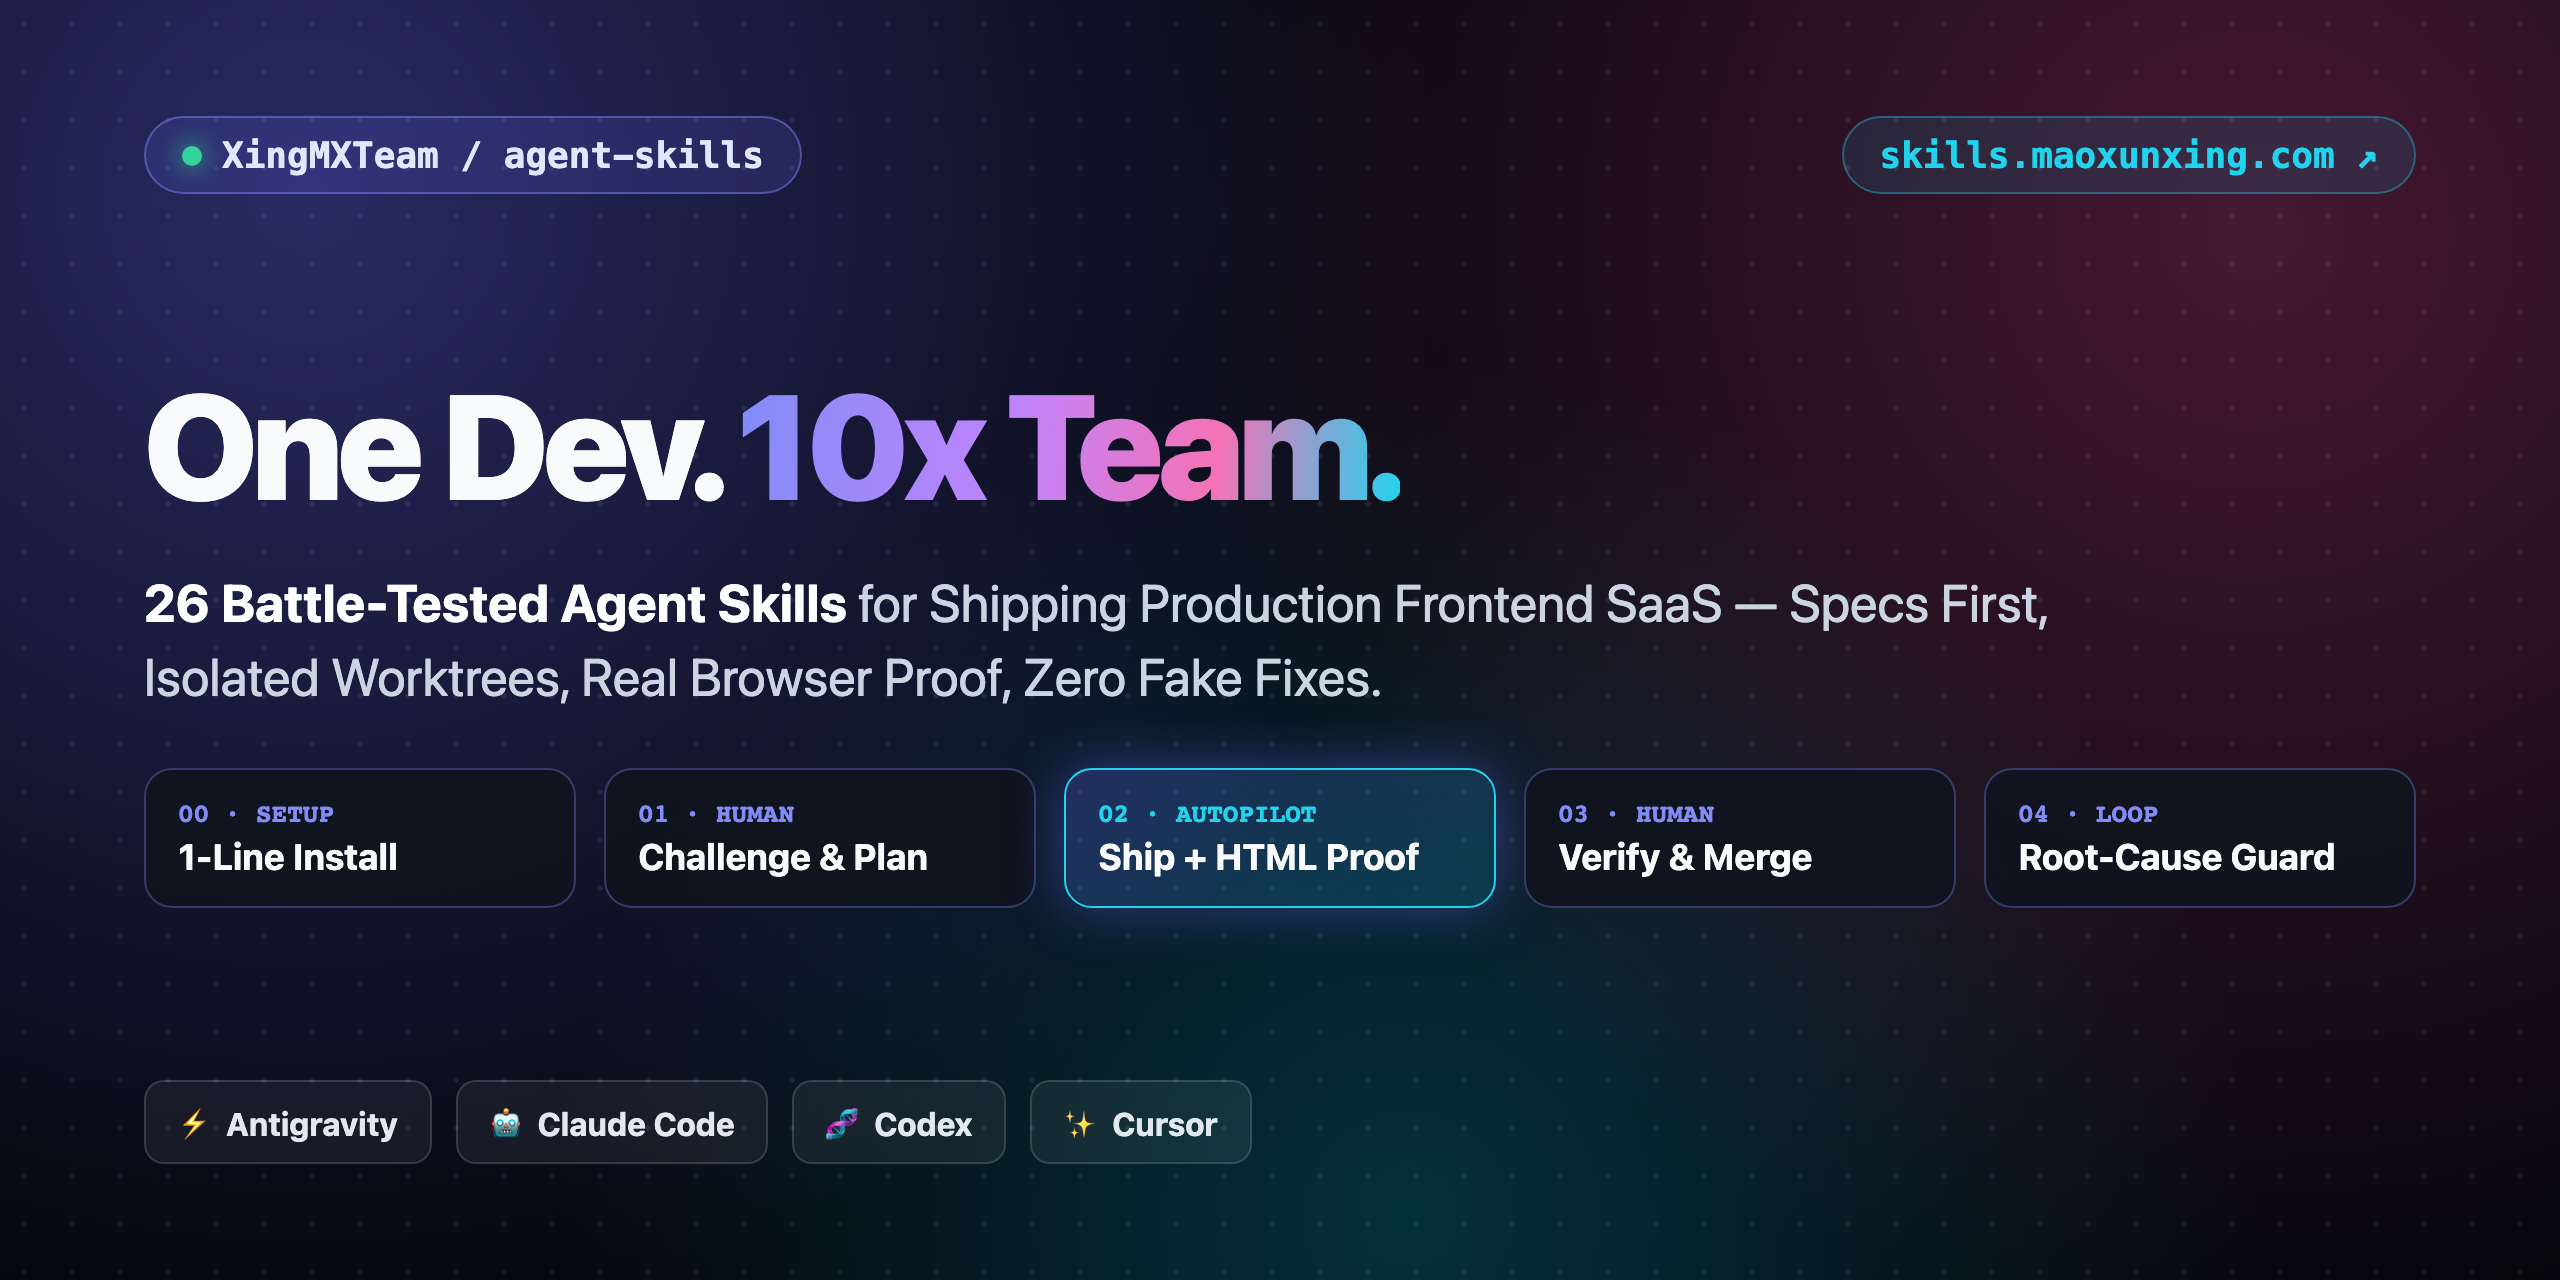
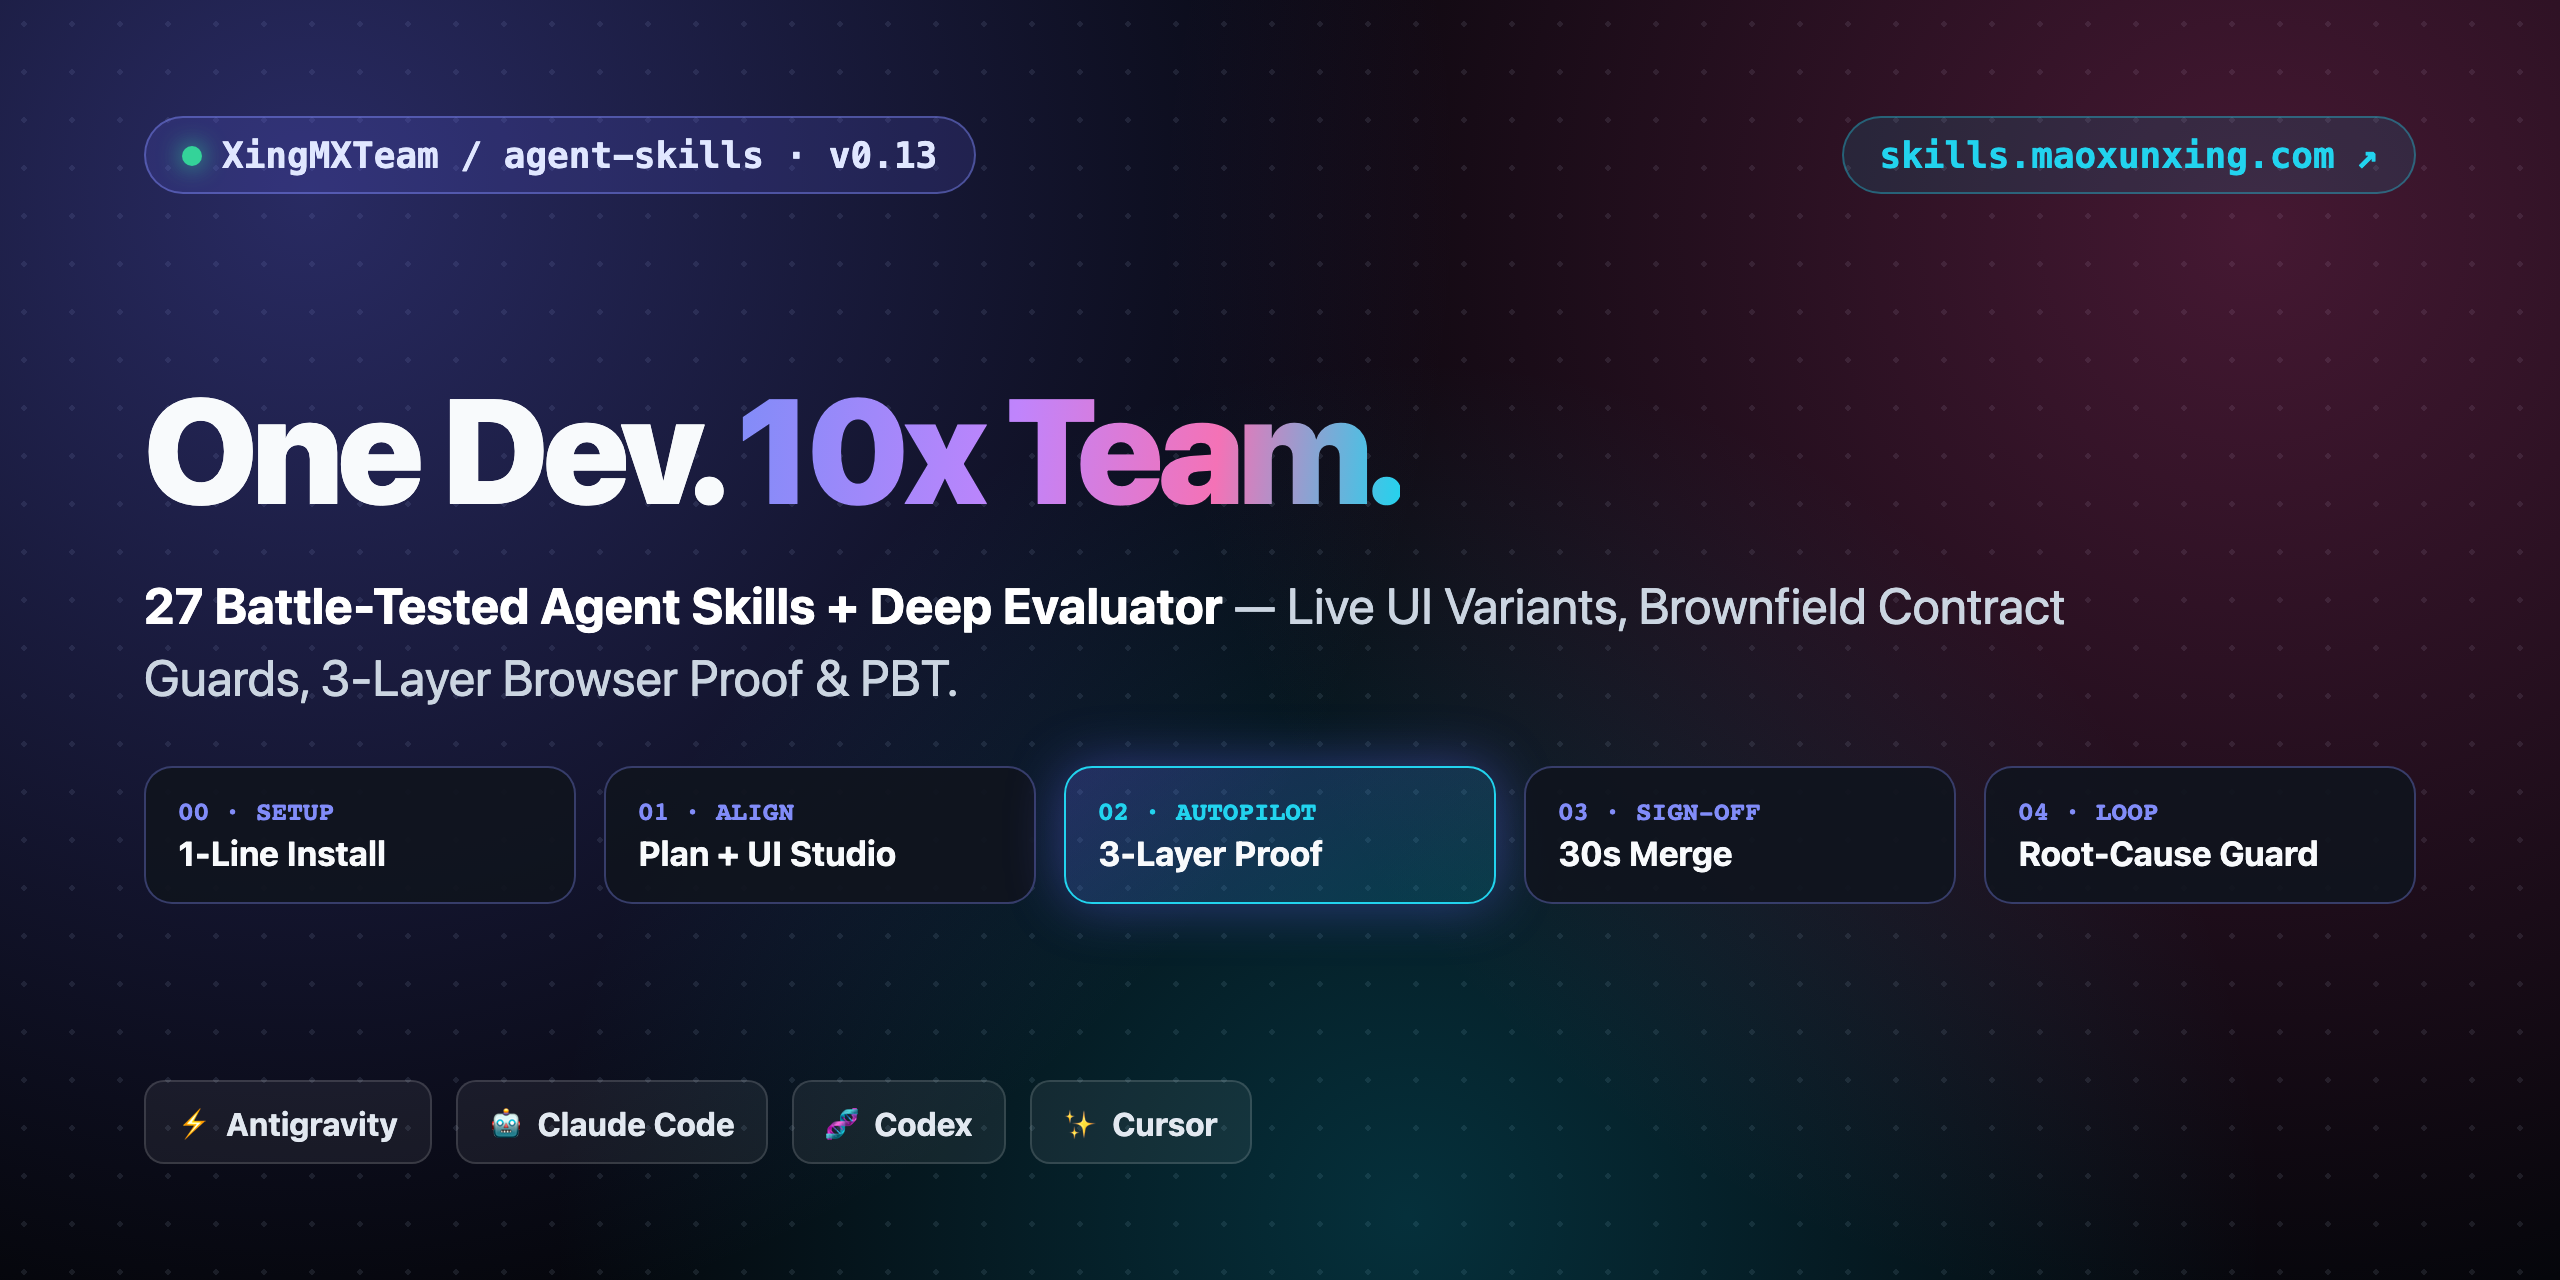
docs: sync GitHub README and visual previews with 27 skills & v0.13 deep evaluator

diff --git a/README.zh-CN.md b/README.zh-CN.md
@@ -54,13 +54,31 @@
 
 ---
 
-## ⚡ 一套能力包，自动适配 4 大主流 AI 编程工具
+## 🛡 为什么敢直接去睡觉？三层智能自动化验收 × v0.13 深度评测引擎
 
-| 你在用的工具 | 自动读取目录 | Skill 自动唤起的原生能力 | 可选手动外挂开关 |
+**95% 的验收全部由 AI 自动跑透并绑定防篡改证据，人不当测试员，只做最后 30 秒的老板签字。**
+
+<a href="https://skills.maoxunxing.com/#verification">
+  <img src="docs/verification-preview.png" alt="skills.maoxunxing.com 三层智能自动化验收" width="100%" />
+</a>
+
+- **第 1 层 · 代码、数据协议与逻辑硬核实跑（`src/gate/rules/`）**
+  - **数据真实消费与老仓库红线**：剥离类型声明后检查字段是否在业务代码里真正被消费（`data-spec-field-unconsumed`），强制拦截破坏 `frozen` / `additive-only` 老仓库协议红线的改动，并校验真实接口返回（`inputs.apiContractResults`）。
+  - **可执行逻辑规格 + 属性测试（PBT）**：彻底告别“写句 `// FP-1` 注释就能糊弄过关”，强制绑定真实通过的 Jest / Vitest / Playwright 用例、状态机枚举与转换覆盖，以及 `fast-check` 属性测试门禁。
+- **第 2 层 · 真浏览器交互走查 + 计算样式 DOM 审计**
+  - 独立上下文实操交互（`interactive-review`），结合浏览器 `getComputedStyle` 巡检横向溢出、文本截断、元素重叠与字号阶梯漂移（`inputs.domAuditResults`），并为目标产物绑定 **SHA-256** 防篡改。
+- **第 3 层 · 老板 30 秒签字放行**
+  - 主观审美与生产上线风险永远归你——前两层全绿后打包为可双击离线打开的 HTML 验收报告，你睡醒扫一眼铁证点 Merge 即可。
+
+---
+
+## ⚡ 一套能力包，自动适配 4 大主流 AI 编程工具（隔离边界）
+
+| 你在用的工具 | 自动读取目录 | 开发 / 验收隔离机制 | 可选手动外挂开关 |
 | :--- | :--- | :--- | :--- |
-| **Antigravity (反重力)** | `.agents/skills/` | 自动拉起 **Swarm** 多代理并行 + **Browser** 真浏览器截图验收 | `/goal`（过夜）、`/grill-me`、`/boost`、`/schedule` |
-| **Claude Code** | `.claude/skills/` | 自动拆 **Subagent** 并行 + `git worktree` 隔离 + Playwright 验真 | `/plan`（`Shift+Tab`）、`/compact`、`/loop` |
-| **Codex** | `.agents/skills/` | 自动隔离分支/沙箱开发 + 全量类型构建测试门禁 | 后台异步多步执行 |
+| **Antigravity (反重力)** | `.agents/skills/` | 平台原生动态 **Swarm** 多代理 + 独立 **Browser** 沙箱子代理 | `/goal`（过夜）、`/grill-me`、`/boost`、`/schedule` |
+| **Claude Code** | `.claude/skills/` | 仓库内 4 个静态角色子代理（`.claude/agents/*.md`）+ `git worktree` | `/plan`（`Shift+Tab`）、`/compact`、`/loop` |
+| **Codex** | `.agents/skills/` | 独立分支 / 沙箱隔离 + 全量确定性构建与测试门禁 | 后台异步多步执行 |
 | **Cursor** | `.agents/skills/` | Agent Mode 规则约束 + 分支隔离 + 终端/MCP 验收 | 立项阶段可切 Plan / Ask 模式 |
 
 ---

diff --git a/README.md b/README.md
@@ -54,12 +54,30 @@
 
 ---
 
-## ⚡ How It Adapts to Your AI Coding Tool
+## 🛡 Three-Layer Automated Verification & v0.13 Deep Evaluator
 
-| Host Environment | Skills Directory | Auto-Adapted Superpowers | Optional Power Switches |
+**95% of QA runs autonomously with zero self-grading — you only spend 30 seconds signing off the standalone HTML proof.**
+
+<a href="https://skills.maoxunxing.com/#verification">
+  <img src="docs/verification-preview.png" alt="Three-Layer Intelligent Automated Verification on skills.maoxunxing.com" width="100%" />
+</a>
+
+- **Layer 1 · Deterministic Code, Data & Logic Engine (`src/gate/rules/`)**
+  - **Data completeness & brownfield mutability**: tracks whether declared TS fields are actually **consumed** in runtime code (`data-spec-field-unconsumed`), enforces `frozen` & `additive-only` brownfield protocol redlines, and validates live HTTP responses (`inputs.apiContractResults`).
+  - **Executable Logic Spec + Property-Based Testing**: replaces comment-only checks with real passing test bindings (`inputs.logicSpec` + Jest/Vitest/Playwright `testResults`), state-machine enum & transition coverage, and `fast-check` PBT verification.
+- **Layer 2 · Real Browser Walkthrough + DOM Audit**
+  - Runs interactive journeys in a fresh context (`interactive-review`), audits computed layout (`inputs.domAuditResults`: horizontal overflow, clipped/overlapping elements, font scale drift, opt-in Tailwind arbitrary escapes), and binds every artifact to its **SHA-256** hash so nothing can be tampered with post-review.
+- **Layer 3 · 30-Second Human Sign-Off**
+  - Subjective taste (`verify: "human"`) and production merges always belong to you — delivered via an offline, double-clickable HTML acceptance report.
+
+---
+
+## ⚡ How It Adapts to Your AI Coding Tool (Isolation Boundaries)
+
+| Host Environment | Skills Directory | Isolation Mechanism | Optional Power Switches |
 | :--- | :--- | :--- | :--- |
-| **Antigravity** | `.agents/skills/` | Auto-triggers **Swarm** parallel execution + **Browser** real visual verification | `/goal` (overnight), `/grill-me`, `/boost`, `/schedule` |
-| **Claude Code** | `.claude/skills/` | Auto-spawns isolated **Subagents** + `git worktree` + Playwright checks | `/plan` (`Shift+Tab`), `/compact`, `/loop` |
+| **Antigravity** | `.agents/skills/` | Dynamic **Swarm** multi-agent board + sandboxed **Browser** subagent | `/goal` (overnight), `/grill-me`, `/boost`, `/schedule` |
+| **Claude Code** | `.claude/skills/` | Static 4 role subagents (`.claude/agents/*.md`) + `git worktree` | `/plan` (`Shift+Tab`), `/compact`, `/loop` |
 | **Codex** | `.agents/skills/` | Isolated branch/worktree execution + deterministic build & test gates | Background multi-step execution |
 | **Cursor** | `.agents/skills/` | Agent Mode constraint enforcement + branch isolation + terminal/MCP checks | Plan / Ask mode for Step 01 |
 
